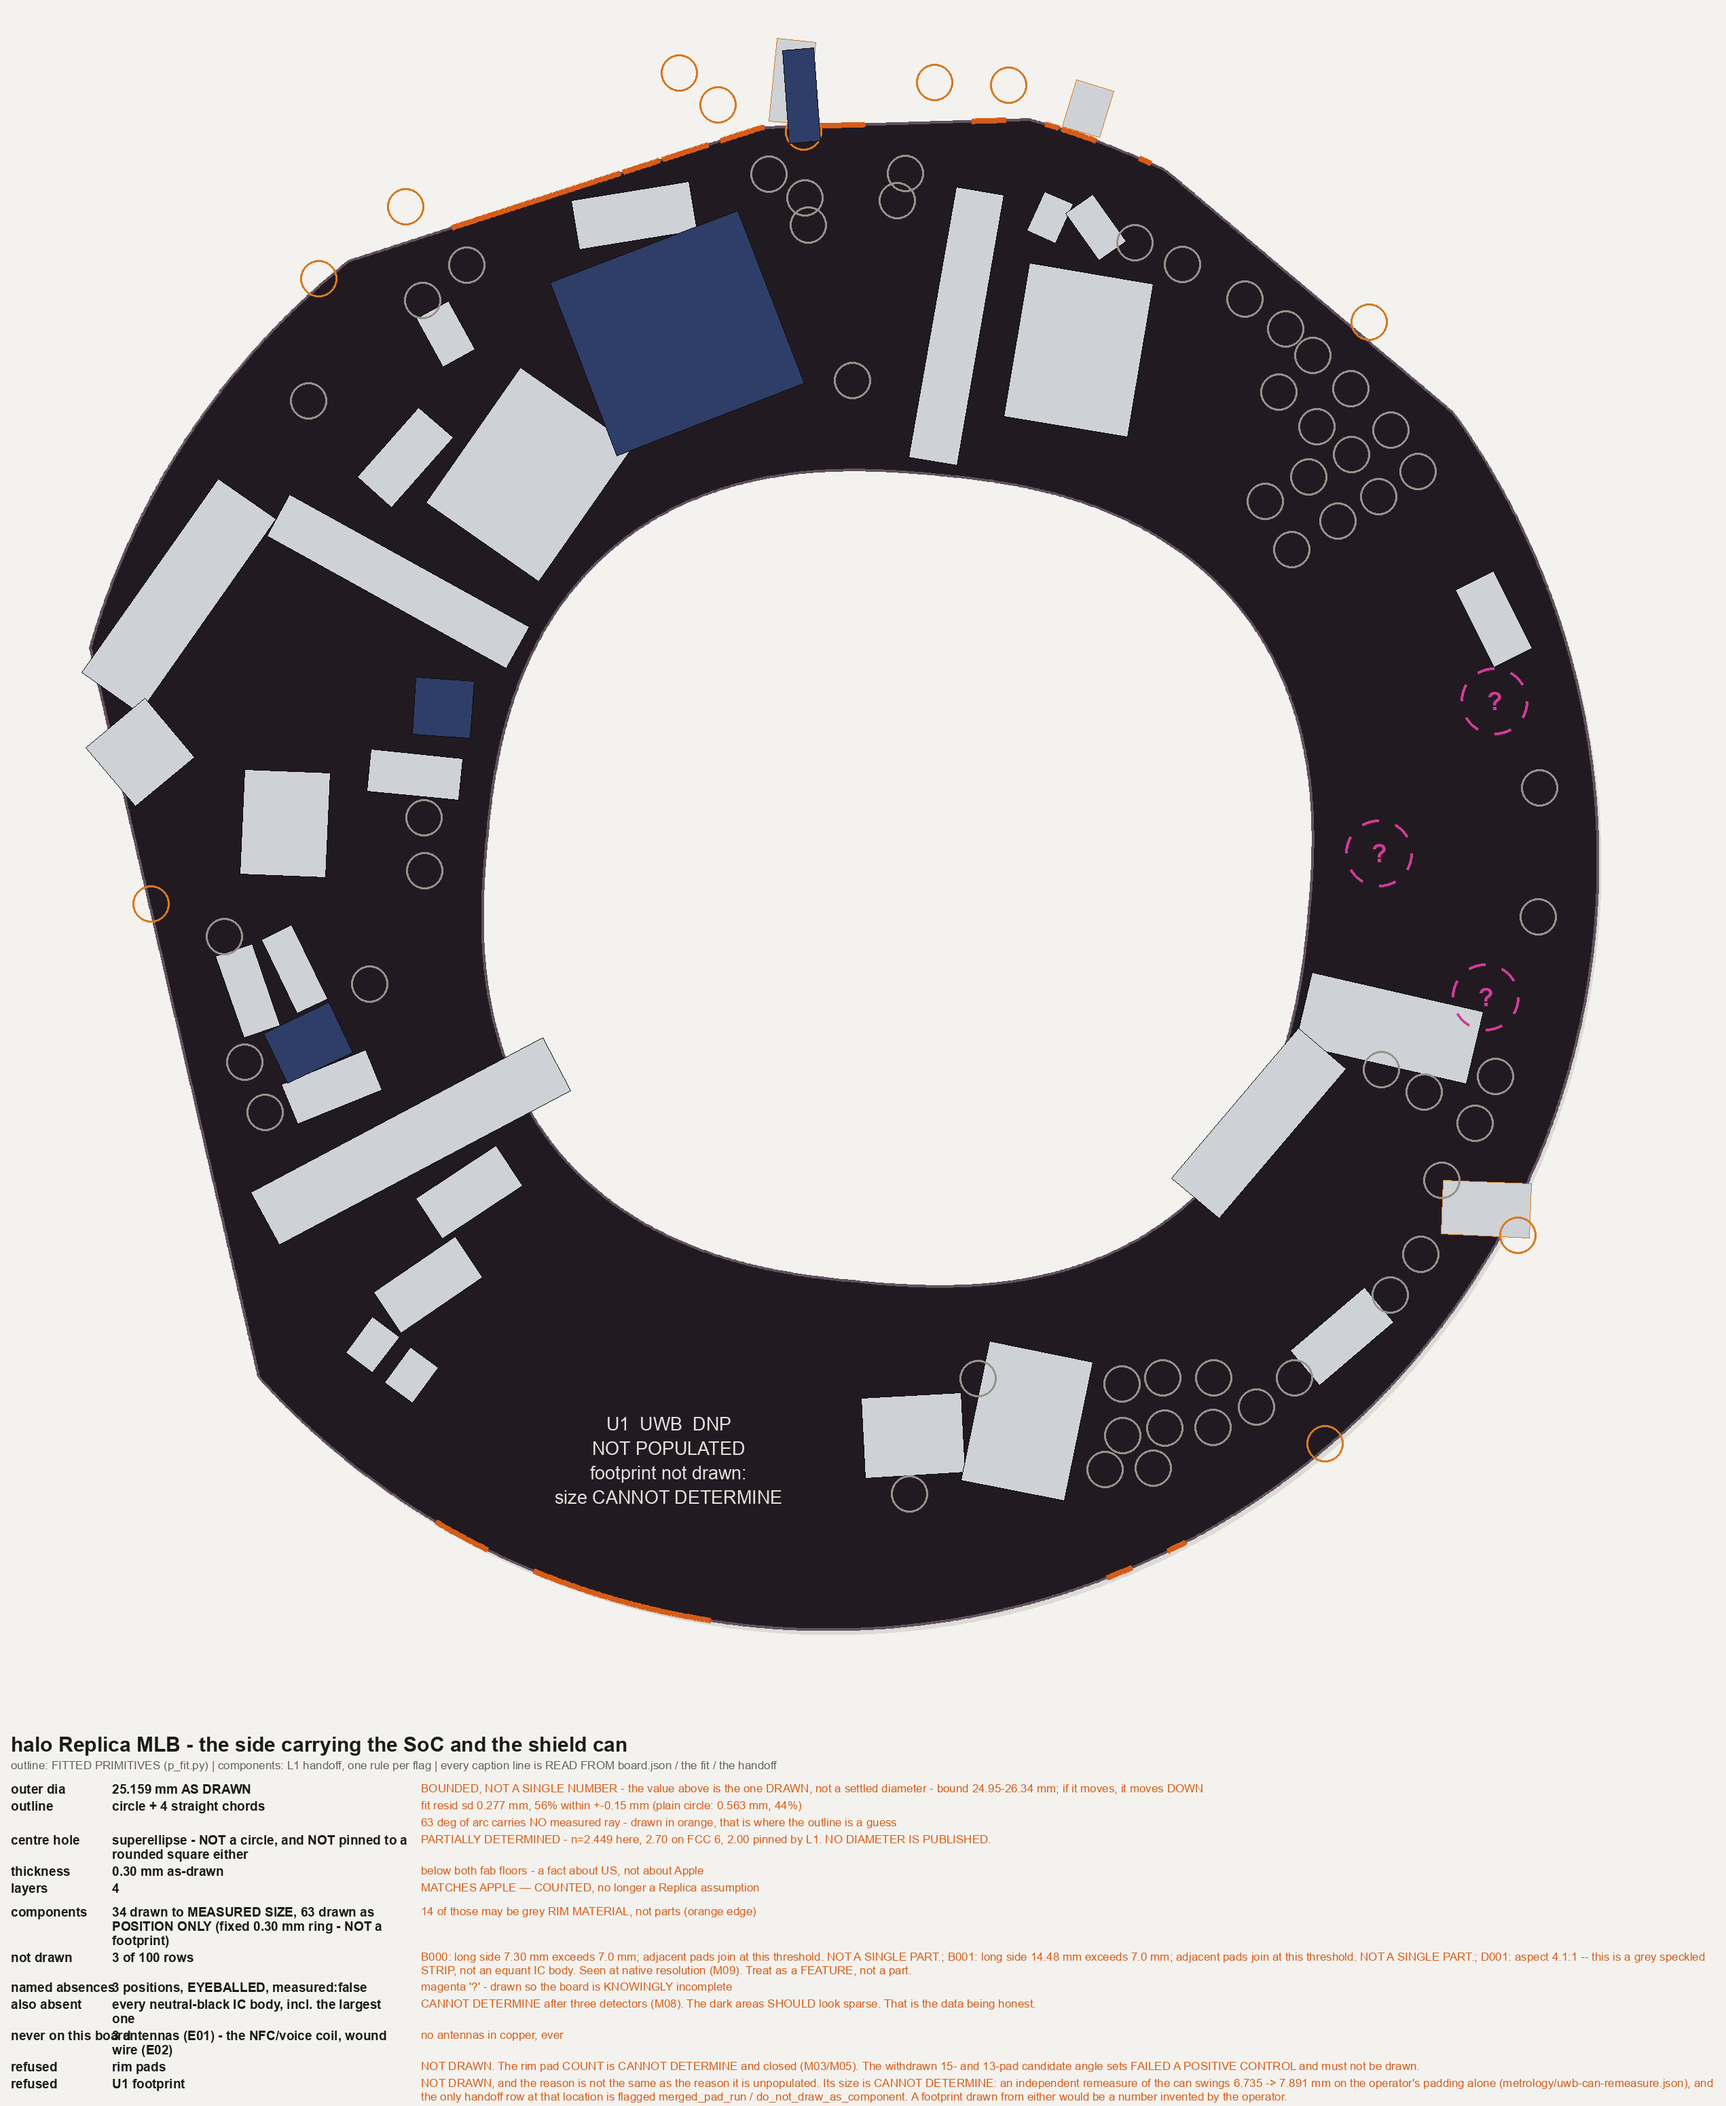
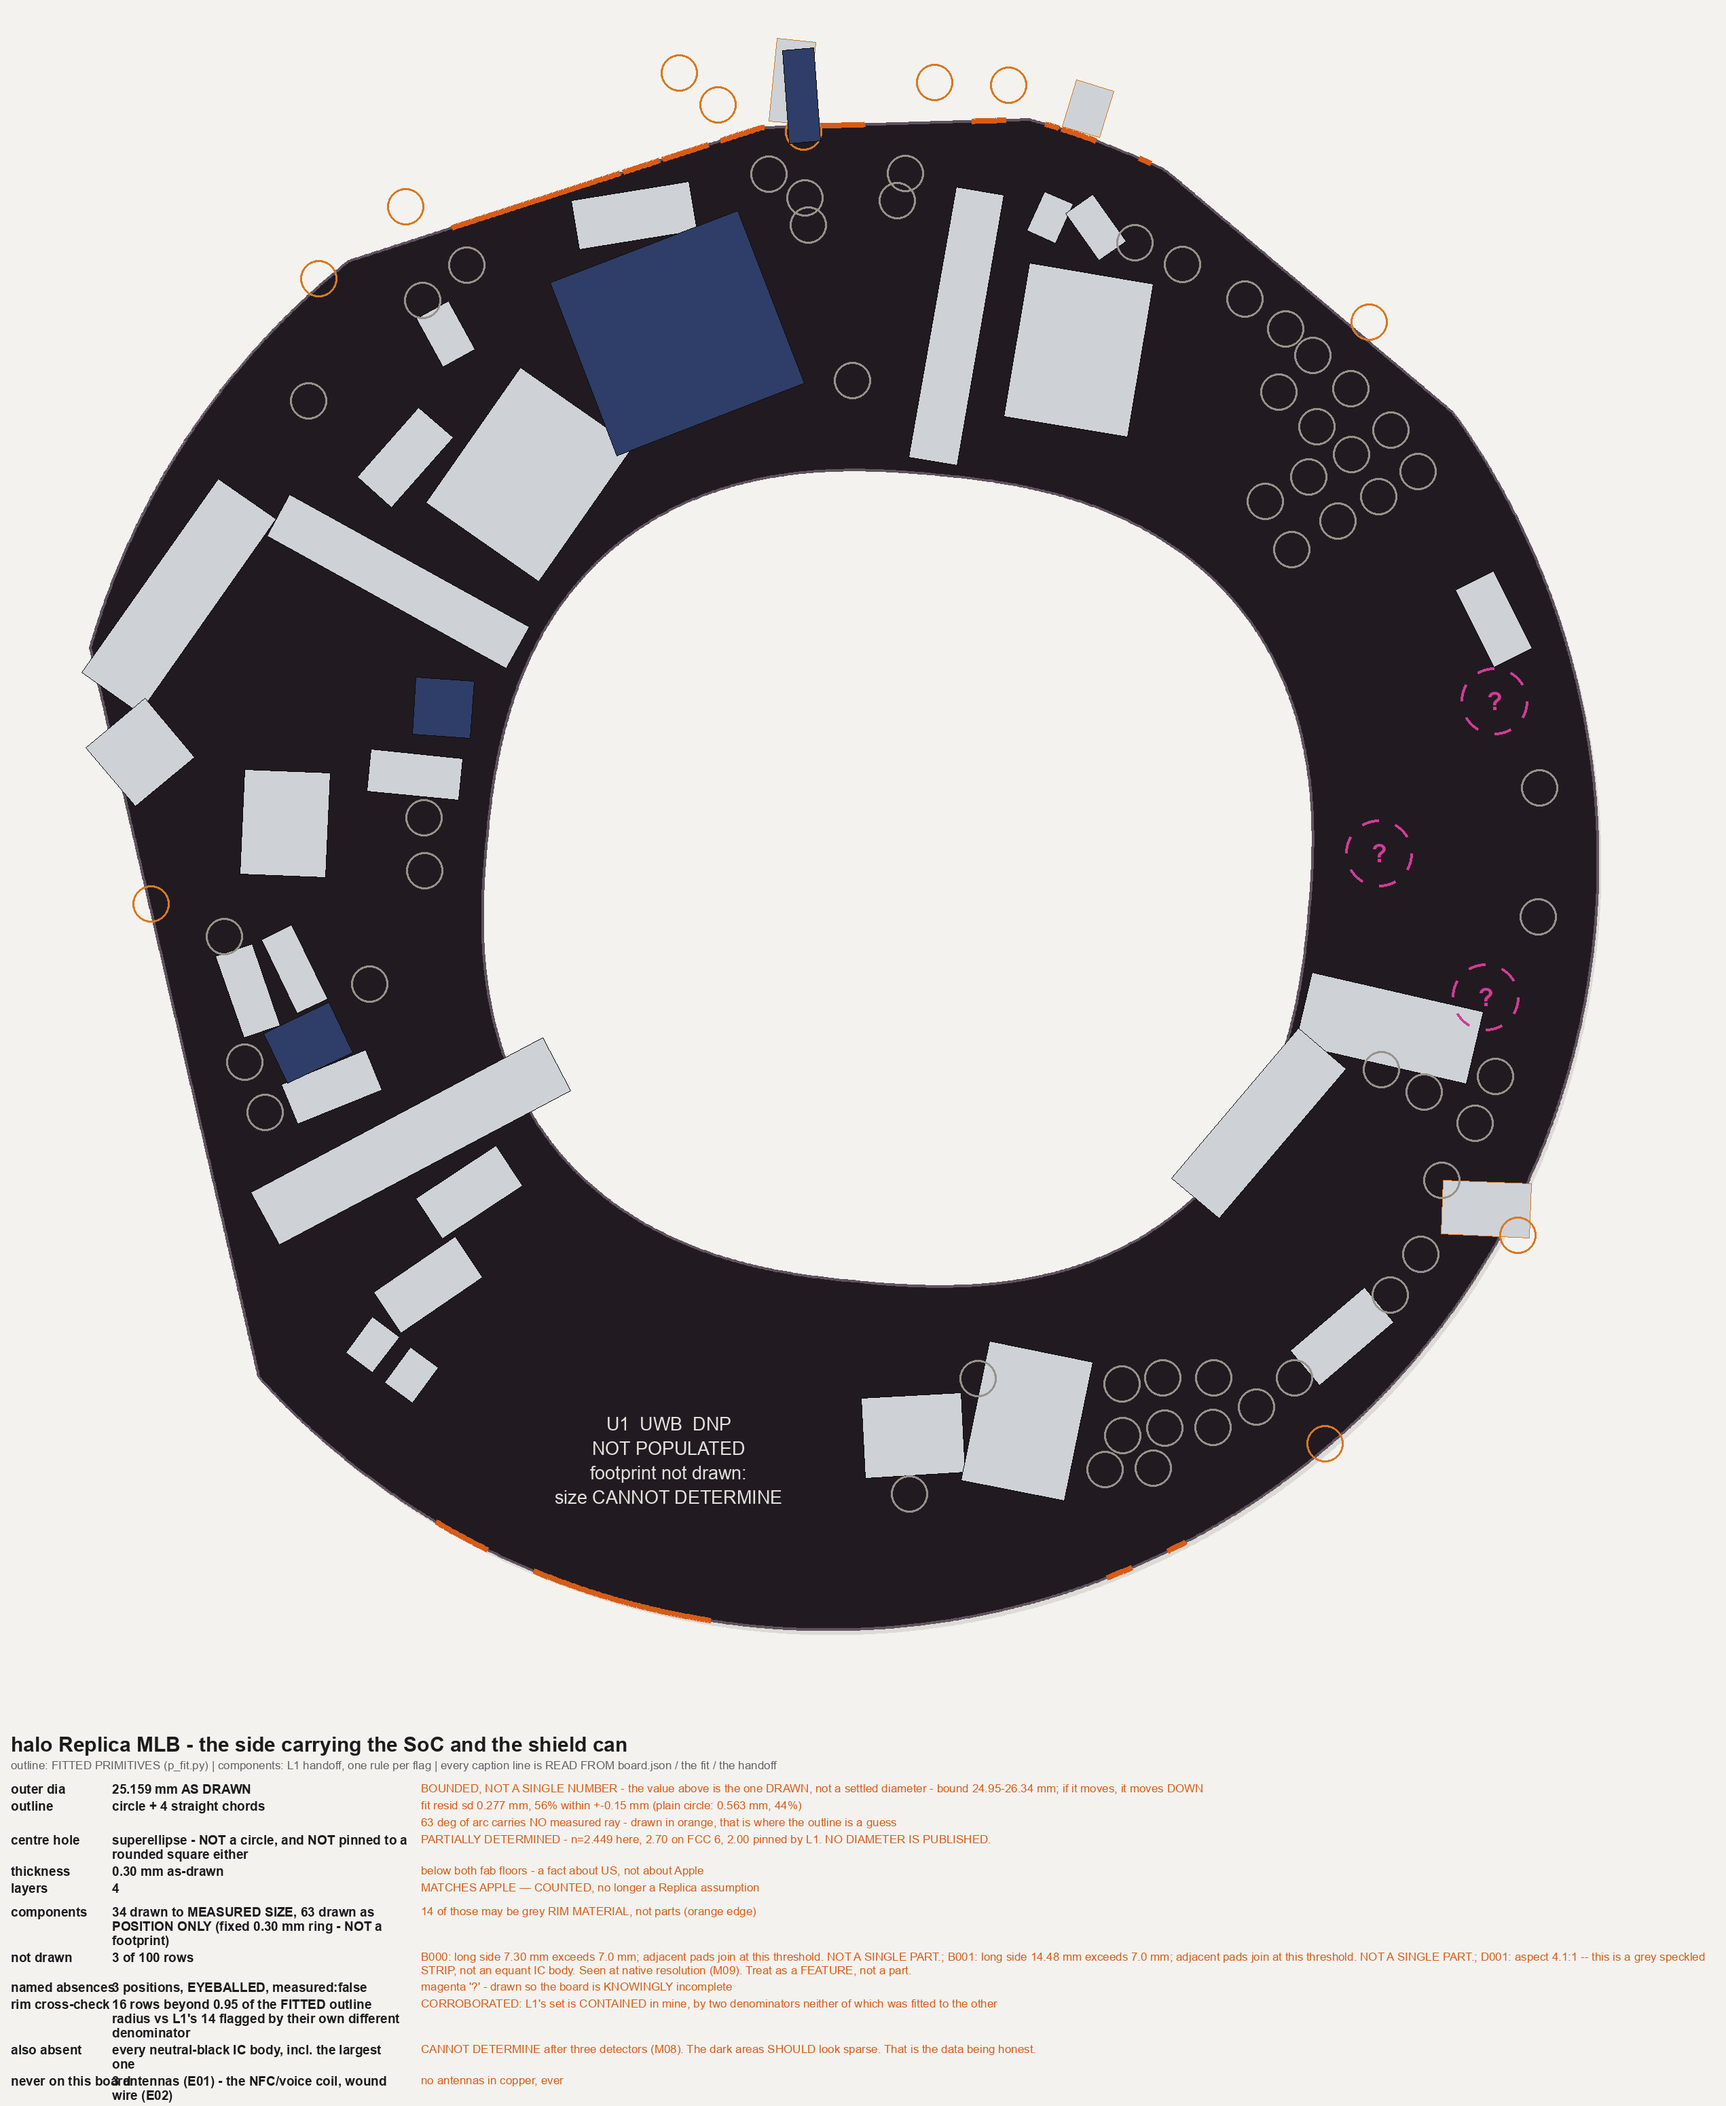
L5b: X1 fixed at its cause, X3 now reaches X4, R7 corroborates L1's rim flag by a different route, and the overlay outline is COLOURED BY ITS OWN ERROR
X1 (3.20% FAIL) was my instrument, not the board, and it was fixed at the cause
rather than loosened: Apple's silhouette was being re-thresholded off the crop and
the dark wooden blocks behind the board merged into the blob. Apple's outline is
now L1's own measurement of this photograph in this frame; 66 of 720 comparison
rays fall in a measurement gap and are DROPPED, never interpolated.
  X1 0.97%  (OURS 24.543 mm | APPLE'S 24.783 mm, same rays)
  X4 RMS 0.413 mm, p95 0.843 mm over 654 rays

X3 DID NOT REACH X4 and was a decoration on that number: panel 1 is rendered by a
subprocess that knows nothing about --break-rotation, so X4 sat at 0.413 mm under
a 12 deg rotation. Fixed. Now measured under the break:
  X4  0.413 -> 0.470 mm
  X5  4.23x -> 1.44x enrichment, and X5 FIRES
X5 collapsing under rotation is what makes 4.23x mean anything.

R5 could not fire either: --break-drop truncated the INPUT rows, so the accounting
identity balanced. It now loses markers at DRAW time with the row count whole, and
R5 fires.

R7, NEW, and it is the free cross-check ce-workshop-9a asked for. 16 of 100 rows
sit beyond 0.95 of the FITTED outline radius. L1 flags 14 by r / their RAW measured
local edge radius - a different denominator, from a profile my model was never
fitted to. Intersection 14, L1-only 0: L1'S SET IS CONTAINED IN MINE. Two methods
that could have disagreed did not.
  My two extras: B011 at 0.9648 (marginal) and D004 at 1.0413 - a BLUE-body row
[…]

Changed region(s): [[0.2486, 0.9594, 0.7459, 1.0], [0.0, 0.9284, 0.2175, 1.0]]

diff --git a/electronics/halo_replica/tools/p_render.py b/electronics/halo_replica/tools/p_render.py
@@ -269,10 +269,39 @@ def draw(board, fit, handoff, ppm, margin_mm, caption, quiet_angle=None, break_d
     for i, t_ in enumerate(lines):
         d.text((sx, sy + (i - 1.5) * ppm * 0.40), t_, font=fs, fill=SILK, anchor="mm")
 
+    # ---- R7: an INDEPENDENT rim cross-check.
+    # L1 flagged 14 of 95 bright rows as on_rim_material_suspect using r / the RAW
+    # measured local edge radius. This uses r / the FITTED outline radius -- a
+    # different denominator, computed from a model L1 never saw, and it covers the
+    # blue rows their test never ran on. The two could disagree; that is the point.
+    tf = np.arange(2880) * 360.0 / 2880
+
+    def _edge(ang):
+        return k * np.interp(np.asarray(ang) % 360, tf, r_mm, period=360)
+
+    fr = {}
+    for row in handoff["rows"]:
+        ang = math.degrees(math.atan2(row["y_mm"], row["x_mm"])) % 360
+        fr[row["id"]] = (math.hypot(row["x_mm"], row["y_mm"]) * k) / float(_edge(ang))
+    THR = 0.95
+    mine = {i for i, v in fr.items() if v > THR}
+    l1 = {r["id"] for r in handoff["rows"]
+          if "on_rim_material_suspect" in r.get("flags", [])}
+    both, mo_, lo_ = mine & l1, mine - l1, l1 - mine
+    r7 = dict(thr=THR, mine=len(mine), l1=len(l1), both=len(both),
+              total=len(handoff["rows"]),
+              mine_only=[(i, round(fr[i], 4)) for i in sorted(mo_)],
+              l1_only=[(i, round(fr[i], 4)) for i in sorted(lo_)],
+              verdict=("CORROBORATED: L1's set is CONTAINED in mine, by two "
+                       "denominators neither of which was fitted to the other"
+                       if not lo_ else
+                       "PARTIAL: the two sets do not nest - chase the difference"))
+
     if caption:
         cap = build_caption(board, fit, handoff, comps, skipped, gaps,
-                            n_sized, n_pos, n_susp, k)
+                            n_sized, n_pos, n_susp, k, r7)
         draw_caption(d, cap, H, W)
+
     # which of the 1440 control rays land on arcs the chords do NOT cut
     o = fit["outer"]
     ppm_fit = fit["scale"]["px_per_mm"]
@@ -286,10 +315,11 @@ def draw(board, fit, handoff, ppm, margin_mm, caption, quiet_angle=None, break_d
         with np.errstate(divide="ignore", invalid="ignore"):
             rm = np.minimum(rm, np.where(den > 1e-9, c["d"] / den, np.inf))
     free = (rc - rm) / ppm_fit < 0.02
+
     return im, Rmax, dict(sized=n_sized, position_only=n_pos, suspect=n_susp,
                           not_drawn=len(skipped), gaps=len(gaps), k=k,
                           skipped=skipped, total_rows=len(handoff["rows"]),
-                          free_arc_mask=free)
+                          free_arc_mask=free, r7=r7)
 
 
 def quietest_arc(comps, k, step=2.0):
@@ -304,7 +334,7 @@ def quietest_arc(comps, k, step=2.0):
     return besta
 
 
-def build_caption(board, fit, handoff, comps, skipped, gaps, ns, np_, nsus, k):
+def build_caption(board, fit, handoff, comps, skipped, gaps, ns, np_, nsus, k, r7):
     """EVERY line is read from a file. Nothing here is a literal about the board."""
     p = board["parameters"]
     od = p["outer_diameter_mm"]
@@ -341,6 +371,9 @@ def build_caption(board, fit, handoff, comps, skipped, gaps, ns, np_, nsus, k):
                  "; ".join(f"{i}: {w}" for i, w in skipped)))
     rows.append(("named absences", f"{len(gaps)} positions, EYEBALLED, measured:false",
                  "magenta '?' - drawn so the board is KNOWINGLY incomplete"))
+    rows.append(("rim cross-check", f"{r7['mine']} rows beyond {r7['thr']:.2f} of the "
+                 f"FITTED outline radius vs L1's {r7['l1']} flagged by their own "
+                 f"different denominator", r7["verdict"]))
     rows.append(("also absent",
                  "every neutral-black IC body, incl. the largest one",
                  "CANNOT DETERMINE after three detectors (M08). The dark areas SHOULD "
@@ -441,6 +474,14 @@ def controls(png, Rmax, ppm_asked, margin_mm, want_dia, expect, free_arc_mask):
             "this; only this check can.")
         ok = False
 
+    r7 = expect.get("r7")
+    if r7:
+        say(f"R7 rim cross-check (INDEPENDENT of L1's): {r7['mine']} of "
+            f"{r7['total']} rows sit beyond {r7['thr']:.2f} of the FITTED outline "
+            f"radius; L1 flags {r7['l1']} rows on_rim_material_suspect by a DIFFERENT "
+            f"denominator (their raw measured local edge radius).")
+        say(f"   intersection {r7['both']}   mine-only {r7['mine_only']}   "
+            f"L1-only {r7['l1_only']}   -> {r7['verdict']}")
     say(f"R5 components: drawn sized {expect['sized']}, position-only "
         f"{expect['position_only']}, suspect {expect['suspect']}, "
         f"not drawn {expect['not_drawn']}, named absences {expect['gaps']}")

diff --git a/electronics/halo_replica/tools/p_compare.py b/electronics/halo_replica/tools/p_compare.py
@@ -278,7 +278,53 @@ def main():
     dv = ImageDraw.Draw(ov, "RGBA")
     def P(p):
         return (c0 + p[0] * a.px_per_mm, c0 + p[1] * a.px_per_mm)
-    dv.line([P(p) for p in outer] + [P(outer[0])], fill=CYAN + (255,), width=3)
+    # THE OUTLINE IS COLOURED BY ITS OWN DISAGREEMENT, per angle, so the picture says
+    # WHERE it is not close instead of leaving that to prose.
+    a_th_s = np.array(ap_raw["outer_r_theta"], float)
+    tt2 = np.concatenate([a_th_s[:, 0] - 360, a_th_s[:, 0], a_th_s[:, 0] + 360])
+    vv2 = np.concatenate([a_th_s[:, 1] / ppm_ph] * 3)
+    n_out = len(outer)
+    ang_out = np.arange(n_out) * 360.0 / n_out + a.break_rotation
+    ap_at = np.interp(ang_out % 360, tt2, vv2)
+    near_out = np.min(np.abs(((ang_out[:, None] % 360) - tt2[None, :] + 180) % 360 - 180),
+                      axis=1)
+    ours_at = np.array([math.hypot(x, y) for x, y in outer])
+    dres = np.where(near_out <= 1.0, np.abs(ours_at - ap_at), np.nan)
+    BANDS = [(0.15, (40, 200, 90)), (0.40, (245, 200, 40)), (1e9, (240, 60, 60))]
+    GREY = (150, 150, 155)
+    for i in range(n_out):
+        v = dres[i]
+        if not np.isfinite(v):
+            col = GREY
+        else:
+            col = next(c for t_, c in BANDS if v <= t_)
+        dv.line([P(outer[i]), P(outer[(i + 1) % n_out])], fill=col + (255,), width=4)
+    band_counts = dict(
+        within_0_15=int(np.nansum(dres <= 0.15)),
+        between_0_15_and_0_40=int(np.nansum((dres > 0.15) & (dres <= 0.40))),
+        beyond_0_40=int(np.nansum(dres > 0.40)),
+        no_apple_ray=int(np.isnan(dres).sum()), total=n_out)
+    say(f"X6 outline disagreement map (model vs Apple's measured rays, {n_out} "
+        f"samples): <=0.15 mm {band_counts['within_0_15']}, 0.15-0.40 mm "
+        f"{band_counts['between_0_15_and_0_40']}, >0.40 mm "
+        f"{band_counts['beyond_0_40']}, no Apple ray {band_counts['no_apple_ray']}")
+    worst = []
+    dd = np.where(np.isfinite(dres), dres, -1)
+    bad = dd > 0.40
+    i = 0
+    while i < n_out:
+        if bad[i]:
+            j = i
+            while j + 1 < n_out and bad[j + 1]:
+                j += 1
+            if (j - i + 1) * 360.0 / n_out >= 3.0:
+                worst.append((round(ang_out[i] % 360, 1), round(ang_out[j] % 360, 1),
+                              round(float(dd[i:j + 1].max()), 3)))
+            i = j + 1
+        else:
+            i += 1
+    for w in worst:
+        say(f"   worst arc {w[0]:.1f}-{w[1]:.1f} deg, peak {w[2]:.3f} mm")
     dv.line([P(p) for p in inner] + [P(inner[0])], fill=CYAN + (255,), width=3)
     for (x, y), c in zip(cpts, comps):
         px, py = P((x, y))
@@ -327,6 +373,16 @@ def main():
         (f"X1 scale match        OURS {od:.3f} mm   APPLE'S {pd:.3f} mm   "
          f"delta {abs(od-pd)/pd*100:.2f}%   (registration is by construction, "
          f"nothing was fitted to make these agree)", INK),
+        (f"X6 disagreement map  the OVERLAY OUTLINE IS COLOURED BY ITS OWN ERROR: "
+         f"green <=0.15 mm ({band_counts['within_0_15']*100//band_counts['total']}% of "
+         f"the perimeter), yellow 0.15-0.40 mm "
+         f"({band_counts['between_0_15_and_0_40']*100//band_counts['total']}%), "
+         f"red >0.40 mm ({band_counts['beyond_0_40']*100//band_counts['total']}%), "
+         f"grey = no measured ray "
+         f"({band_counts['no_apple_ray']*100//band_counts['total']}%)", INK),
+        ("worst arcs (deg, peak mm): " + ("  ".join(f"{a0:.0f}-{a1:.0f}: {v:.2f}"
+                                                    for a0, a1, v in worst)
+                                          or "none beyond 0.40 mm"), INK),
         ("Apple's silhouette is L1's measurement of THIS photograph in THIS frame. "
          "Re-thresholding the crop was tried and REJECTED: the wooden blocks behind "
          "the board merge into it and inflated Apple's diameter by 3.20%.",
@@ -379,7 +435,8 @@ def main():
 
     code = PASS if (x1 and x2 and x5) else FAIL
     say({0: "PASS", 1: "FAIL", 2: "CANNOT DETERMINE"}[code])
-    print(json.dumps(dict(rms_mm=rms, p95_mm=p95, ours_dia_mm=od, apple_dia_mm=pd,
+    print(json.dumps(dict(x6=band_counts, worst_arcs=worst,
+                          rms_mm=rms, p95_mm=p95, ours_dia_mm=od, apple_dia_mm=pd,
                           rays=int(good.sum()), rotation_deg=a.break_rotation,
                           x5_marker_median_luma=med_h, x5_random_median_luma=med_c,
                           x5_enrichment=frac_h / frac_c)))
